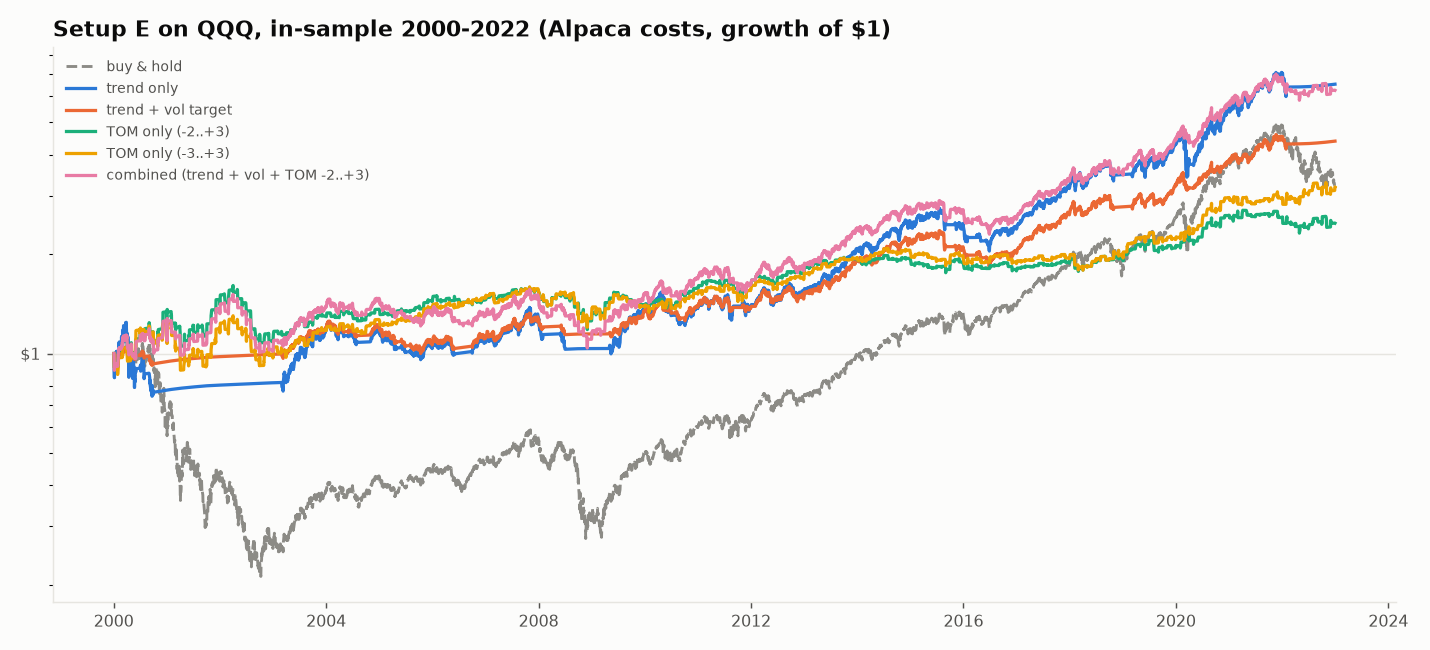
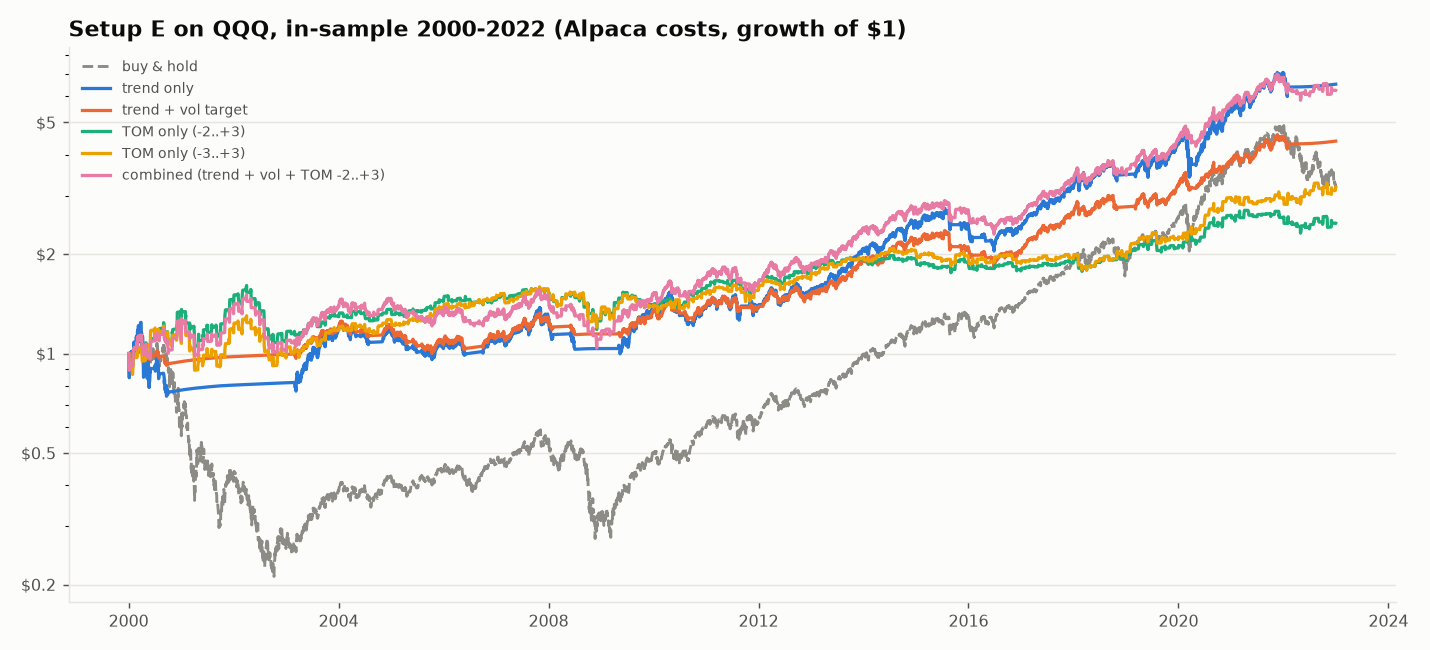
Setup E: holdout 2023-2026 (run once), drop rules and write-up
- Holdout: every E variant lagged buy-and-hold in 2023-26 (SPY combined
  12.2%/yr vs 20.9%) with about half the drawdown
- Drop rules pass: SPY trend + vol target, SPY combined, QQQ trend + vol
  target (Alpaca only); TOM-only variants and everything on IG fail
- SETUP_E.md: components, full metrics, IG version, drop-rule table,
  verdict (drawdown insurance, not extra return; Alpaca not IG)
- AV: empty responses for delisted names are cached so the daily
  budget isn't re-spent on them
- Chart log-axis labels; variant ledger tidied (addendum total 11)

diff --git a/src/earnings_bot/data/earnings.py b/src/earnings_bot/data/earnings.py
@@ -187,6 +187,11 @@ def fetch_av_earnings(
         if "requests per day" in low or ("rate limit" in low and "25" in low):
             budget.exhaust()
             raise RateLimited(f"Alpha Vantage daily limit: {msg}")
+        if data == {}:
+            # AV has nothing for this ticker (typical for delisted names): remember that, so the
+            # 25-a-day budget isn't spent asking again
+            write_json({"quarterlyEarnings": [], "empty": True}, path)
+            return {"quarterlyEarnings": []}
         raise ValueError(f"Alpha Vantage returned no earnings for {symbol}: {msg}")
     write_json(data, path)
     _time.sleep(1.2)  # be polite between calls

diff --git a/scripts/run_setup_e.py b/scripts/run_setup_e.py
@@ -121,6 +121,7 @@ def main() -> int:
             ax.plot(c.index, c.values, color=color, linewidth=1.8, label=name)
         if not args.holdout:
             ax.set_yscale("log")
+            ax.yaxis.set_major_locator(mtick.LogLocator(base=10, subs=(1.0, 2.0, 5.0)))
         ax.yaxis.set_major_formatter(mtick.FuncFormatter(lambda v, _: f"${v:,.2g}"))
         ax.yaxis.set_minor_formatter(mtick.NullFormatter())
         ax.legend(frameon=False, fontsize=8, labelcolor=INK2, loc="upper left")

diff --git a/docs/research/setup_e/SETUP_E.md b/docs/research/setup_e/SETUP_E.md
@@ -1,0 +1,206 @@
+# Research addendum, Setup E: SPY/QQQ trend filter + volatility target + turn-of-the-month tilt
+
+Rules as written in the addendum, no tunable parameters. Code: `signals/setup_e.py`,
+`backtest/allocation.py`, `scripts/run_setup_e.py` (evaluation definitions fixed in its docstring
+before any results). Results: `results_pre_holdout.csv`, `results_holdout.csv`, `drop_rules.csv`.
+
+## Rules and interpretation choices (fixed in advance)
+
+- **Trend:** at each month-end close, invested if SPY/QQQ closes above its 200-day SMA, else cash
+  earning the 3-month T-bill rate (FRED DTB3). Filled at the next open.
+- **Vol target:** exposure min(1, 0.12 / sigma20), sigma20 = annualised 20-day realised vol.
+  *Choice:* recomputed at every daily close, filled at the next open (the addendum doesn't say how
+  often; daily is the direct reading of the formula).
+- **TOM:** from the close of trading day -2 before month-end to the close of day +3, hold 1.0x;
+  entry and exit at those closes. *Choice:* at the TOM exit close the position returns to the base
+  target decided at the *previous* close, so no signal is filled at its own close (rule 4).
+- **Costs:** Alpaca 2 bps/side. IG daily-funded index bet: 0.5 pt (S&P 500) / 1.0 pt (Nasdaq-100)
+  round trip, plus (fed funds + 3.4%) / 360 per night on the exposure held overnight. Each also x2.
+  Cash earns T-bills in every version.
+- **Sharpe:** "Sharpe" uses rf = 0; **"excess Sharpe" is over T-bills and is the one used for the
+  drop rules** (cash earned 4-5% in 2023-26, so rf = 0 would flatter cash-heavy variants).
+- **Periods:** development 2000-2015, validation 2016-2022 (no parameters to re-fit, so simply the
+  next out-of-sample block), **holdout 2023-01-01 to 2026-11-13, run once** after the pre-holdout
+  results were committed (`be895e6`).
+
+**Caveat on the holdout:** it isn't fully unseen. Setup D (Nov 2026) already showed me how SPY/QQQ
+moving-average filters did from Nov 2024 to Nov 2026. E's rules were fixed by the addendum, not by me,
+so this couldn't influence them, but the holdout isn't independent of what I'd seen.
+
+## Summary (Alpaca costs): CAGR / max drawdown / excess Sharpe
+
+### SPY
+
+| variant                             | development 2000-2015   | validation 2016-2022   | in-sample 2000-2022   | 2010-2019            | 2020-2026            | holdout 2023-2026    |
+|:------------------------------------|:------------------------|:-----------------------|:----------------------|:---------------------|:---------------------|:---------------------|
+| buy & hold                          | +4.0% / -55% / 0.21     | +11.6% / -34% / 0.62   | +6.2% / -55% / 0.33   | +13.3% / -19% / 0.88 | +14.6% / -34% / 0.64 | +20.9% / -19% / 1.03 |
+| trend only                          | +8.4% / -17% / 0.58     | +6.8% / -22% / 0.50    | +7.8% / -22% / 0.55   | +8.1% / -22% / 0.64  | +9.4% / -24% / 0.53  | +12.4% / -10% / 0.65 |
+| trend + vol target                  | +6.7% / -13% / 0.54     | +6.6% / -17% / 0.59    | +6.6% / -17% / 0.55   | +7.0% / -17% / 0.65  | +8.4% / -16% / 0.53  | +10.7% / -10% / 0.56 |
+| TOM only (-2..+3)                   | +3.7% / -18% / 0.27     | +3.5% / -9% / 0.33     | +3.6% / -18% / 0.28   | +2.6% / -14% / 0.33  | +6.2% / -9% / 0.42   | +7.4% / -9% / 0.42   |
+| TOM only (-3..+3)                   | +4.2% / -20% / 0.30     | +6.4% / -11% / 0.62    | +4.8% / -20% / 0.38   | +3.3% / -12% / 0.40  | +9.1% / -13% / 0.69  | +8.0% / -13% / 0.49  |
+| combined (trend + vol + TOM -2..+3) | +7.6% / -21% / 0.53     | +9.6% / -15% / 0.75    | +8.1% / -21% / 0.59   | +9.8% / -20% / 0.83  | +10.0% / -15% / 0.60 | +12.2% / -11% / 0.65 |
+
+### QQQ
+
+| variant                             | development 2000-2015   | validation 2016-2022   | in-sample 2000-2022   | 2010-2019            | 2020-2026            | holdout 2023-2026    |
+|:------------------------------------|:------------------------|:-----------------------|:----------------------|:---------------------|:---------------------|:---------------------|
+| buy & hold                          | +1.7% / -83% / 0.14     | +14.5% / -35% / 0.65   | +5.3% / -83% / 0.27   | +17.7% / -23% / 1.00 | +18.9% / -35% / 0.70 | +28.4% / -23% / 1.10 |
+| trend only                          | +5.7% / -40% / 0.30     | +15.6% / -29% / 0.82   | +8.5% / -40% / 0.46   | +11.8% / -26% / 0.76 | +16.2% / -29% / 0.71 | +17.7% / -15% / 0.75 |
+| trend + vol target                  | +4.7% / -20% / 0.32     | +11.5% / -12% / 0.93   | +6.6% / -23% / 0.51   | +9.0% / -23% / 0.75  | +12.7% / -12% / 0.83 | +14.6% / -10% / 0.80 |
+| TOM only (-2..+3)                   | +4.0% / -33% / 0.23     | +4.5% / -15% / 0.38    | +4.0% / -33% / 0.26   | +4.0% / -11% / 0.48  | +7.0% / -15% / 0.42  | +8.5% / -12% / 0.45  |
+| TOM only (-3..+3)                   | +4.2% / -29% / 0.24     | +7.8% / -10% / 0.62    | +5.2% / -29% / 0.32   | +4.7% / -14% / 0.52  | +9.8% / -15% / 0.60  | +8.1% / -15% / 0.38  |
+| combined (trend + vol + TOM -2..+3) | +6.4% / -33% / 0.35     | +13.3% / -17% / 0.88   | +8.3% / -33% / 0.49   | +11.3% / -21% / 0.85 | +14.0% / -17% / 0.76 | +16.1% / -12% / 0.80 |
+
+![SPY 2000-2022](equity_SPY_pre_holdout.png)
+
+![SPY holdout](equity_SPY_holdout.png)
+
+![QQQ 2000-2022](equity_QQQ_pre_holdout.png)
+
+![QQQ holdout](equity_QQQ_holdout.png)
+
+## Full figures, 2000-2022 (Alpaca)
+
+### SPY
+
+| variant                             | CAGR   | volatility   | max DD   |   Sharpe |   excess Sharpe |   months | win rate (months)   | avg win month   | avg loss month   | time invested   | avg exposure   |   trades/yr |   costs+funding %/yr | top-5% months share of profit   |
+|:------------------------------------|:-------|:-------------|:---------|---------:|----------------:|---------:|:--------------------|:----------------|:-----------------|:----------------|:---------------|------------:|---------------------:|:--------------------------------|
+| buy & hold                          | +6.2%  | 19.9%        | -55.2%   |     0.4  |            0.33 |      276 | 62%                 | +3.3%           | -3.8%            | 100%            | 100%           |           0 |                 0    | 78%                             |
+| trend only                          | +7.8%  | 12.3%        | -22.2%   |     0.68 |            0.55 |      276 | 75%                 | +1.8%           | -2.9%            | 73%             | 73%            |           1 |                 0.02 | 52%                             |
+| trend + vol target                  | +6.6%  | 9.7%         | -17.1%   |     0.71 |            0.55 |      276 | 74%                 | +1.6%           | -2.3%            | 73%             | 64%            |          49 |                 0.06 | 47%                             |
+| TOM only (-2..+3)                   | +3.6%  | 8.2%         | -18.0%   |     0.47 |            0.28 |      276 | 59%                 | +1.6%           | -1.6%            | 19%             | 19%            |          24 |                 0.48 | 77%                             |
+| TOM only (-3..+3)                   | +4.8%  | 9.3%         | -20.0%   |     0.55 |            0.38 |      276 | 60%                 | +1.8%           | -1.7%            | 24%             | 24%            |          24 |                 0.48 | 73%                             |
+| combined (trend + vol + TOM -2..+3) | +8.1%  | 11.9%        | -21.1%   |     0.72 |            0.59 |      276 | 64%                 | +2.5%           | -2.5%            | 78%             | 71%            |          50 |                 0.21 | 44%                             |
+
+### QQQ
+
+| variant                             | CAGR   | volatility   | max DD   |   Sharpe |   excess Sharpe |   months | win rate (months)   | avg win month   | avg loss month   | time invested   | avg exposure   |   trades/yr |   costs+funding %/yr | top-5% months share of profit   |
+|:------------------------------------|:-------|:-------------|:---------|---------:|----------------:|---------:|:--------------------|:----------------|:-----------------|:----------------|:---------------|------------:|---------------------:|:--------------------------------|
+| buy & hold                          | +5.3%  | 27.7%        | -83.0%   |     0.32 |            0.27 |      276 | 58%                 | +5.1%           | -5.4%            | 100%            | 100%           |           0 |                 0    | 111%                            |
+| trend only                          | +8.5%  | 18.2%        | -40.2%   |     0.54 |            0.46 |      276 | 70%                 | +2.6%           | -3.6%            | 71%             | 71%            |           2 |                 0.03 | 62%                             |
+| trend + vol target                  | +6.6%  | 10.7%        | -22.6%   |     0.66 |            0.51 |      276 | 70%                 | +1.9%           | -2.4%            | 71%             | 54%            |          72 |                 0.09 | 50%                             |
+| TOM only (-2..+3)                   | +4.0%  | 12.4%        | -32.9%   |     0.38 |            0.26 |      276 | 58%                 | +2.5%           | -2.5%            | 19%             | 19%            |          24 |                 0.48 | 113%                            |
+| TOM only (-3..+3)                   | +5.2%  | 13.7%        | -29.4%   |     0.44 |            0.32 |      276 | 59%                 | +2.6%           | -2.5%            | 24%             | 24%            |          24 |                 0.48 | 97%                             |
+| combined (trend + vol + TOM -2..+3) | +8.3%  | 15.6%        | -33.4%   |     0.59 |            0.49 |      276 | 59%                 | +3.5%           | -3.2%            | 76%             | 63%            |          73 |                 0.28 | 63%                             |
+
+## Holdout 2023-2026 (Alpaca)
+
+### SPY
+
+| variant                             | CAGR   | volatility   | max DD   |   Sharpe |   excess Sharpe |   months | win rate (months)   | avg win month   | avg loss month   | time invested   | avg exposure   |   trades/yr |   costs+funding %/yr | top-5% months share of profit   |
+|:------------------------------------|:-------|:-------------|:---------|---------:|----------------:|---------:|:--------------------|:----------------|:-----------------|:----------------|:---------------|------------:|---------------------:|:--------------------------------|
+| buy & hold                          | +20.9% | 15.0%        | -18.8%   |     1.34 |            1.03 |       47 | 66%                 | +3.6%           | -2.1%            | 100%            | 100%           |           0 |                 0    | 34%                             |
+| trend only                          | +12.4% | 12.3%        | -10.0%   |     1.02 |            0.65 |       47 | 66%                 | +2.6%           | -2.1%            | 89%             | 89%            |           2 |                 0.04 | 38%                             |
+| trend + vol target                  | +10.7% | 11.1%        | -9.7%    |     0.97 |            0.56 |       47 | 64%                 | +2.4%           | -1.9%            | 89%             | 82%            |          65 |                 0.09 | 42%                             |
+| TOM only (-2..+3)                   | +7.4%  | 6.5%         | -9.2%    |     1.12 |            0.42 |       47 | 70%                 | +1.7%           | -1.9%            | 19%             | 19%            |          24 |                 0.49 | 43%                             |
+| TOM only (-3..+3)                   | +8.0%  | 7.1%         | -12.6%   |     1.13 |            0.49 |       47 | 66%                 | +1.9%           | -1.8%            | 24%             | 24%            |          24 |                 0.49 | 42%                             |
+| combined (trend + vol + TOM -2..+3) | +12.2% | 11.8%        | -11.1%   |     1.04 |            0.65 |       47 | 62%                 | +2.9%           | -2.0%            | 91%             | 85%            |          60 |                 0.14 | 38%                             |
+
+### QQQ
+
+| variant                             | CAGR   | volatility   | max DD   |   Sharpe |   excess Sharpe |   months | win rate (months)   | avg win month   | avg loss month   | time invested   | avg exposure   |   trades/yr |   costs+funding %/yr | top-5% months share of profit   |
+|:------------------------------------|:-------|:-------------|:---------|---------:|----------------:|---------:|:--------------------|:----------------|:-----------------|:----------------|:---------------|------------:|---------------------:|:--------------------------------|
+| buy & hold                          | +28.4% | 20.5%        | -22.8%   |     1.33 |            1.1  |       47 | 64%                 | +5.1%           | -3.0%            | 100%            | 100%           |           0 |                 0    | 37%                             |
+| trend only                          | +17.7% | 18.0%        | -14.8%   |     1    |            0.75 |       47 | 62%                 | +4.1%           | -2.8%            | 92%             | 92%            |           1 |                 0.03 | 45%                             |
+| trend + vol target                  | +14.6% | 12.4%        | -9.7%    |     1.17 |            0.8  |       47 | 66%                 | +2.9%           | -2.2%            | 92%             | 66%            |         117 |                 0.12 | 38%                             |
+| TOM only (-2..+3)                   | +8.5%  | 8.9%         | -11.9%   |     0.97 |            0.45 |       47 | 60%                 | +2.5%           | -2.0%            | 19%             | 19%            |          24 |                 0.49 | 46%                             |
+| TOM only (-3..+3)                   | +8.1%  | 9.8%         | -15.1%   |     0.84 |            0.38 |       47 | 57%                 | +2.8%           | -2.1%            | 24%             | 24%            |          24 |                 0.49 | 47%                             |
+| combined (trend + vol + TOM -2..+3) | +16.1% | 14.2%        | -12.1%   |     1.13 |            0.8  |       47 | 66%                 | +3.4%           | -2.7%            | 93%             | 72%            |         113 |                 0.26 | 40%                             |
+
+## IG daily-funded index bet: CAGR / excess Sharpe
+
+| instrument   | variant                             | IG 2000-22   | IG x2 2000-22   | IG 2023-26    | IG x2 2023-26   |   IG costs+funding %/yr |
+|:-------------|:------------------------------------|:-------------|:----------------|:--------------|:----------------|------------------------:|
+| SPY          | buy & hold                          | +0.9% / 0.07 | -4.1% / -0.19   | +11.5% / 0.50 | +2.9% / -0.04   |                    5.12 |
+| SPY          | trend only                          | +3.9% / 0.25 | +0.2% / -0.05   | +4.6% / 0.06  | -2.7% / -0.53   |                    3.68 |
+| SPY          | trend + vol target                  | +3.3% / 0.22 | -0.0% / -0.11   | +3.7% / -0.03 | -3.0% / -0.63   |                    3.23 |
+| SPY          | TOM only (-2..+3)                   | +2.6% / 0.16 | +1.2% / -0.01   | +6.0% / 0.24  | +4.2% / -0.03   |                    1.41 |
+| SPY          | TOM only (-3..+3)                   | +3.6% / 0.26 | +1.9% / 0.08    | +6.3% / 0.26  | +4.1% / -0.04   |                    1.63 |
+| SPY          | combined (trend + vol + TOM -2..+3) | +4.4% / 0.29 | +0.5% / -0.03   | +4.8% / 0.07  | -2.2% / -0.52   |                    3.75 |
+| QQQ          | buy & hold                          | +0.0% / 0.08 | -5.0% / -0.10   | +18.5% / 0.71 | +9.3% / 0.32    |                    5.12 |
+| QQQ          | trend only                          | +4.8% / 0.27 | +1.3% / 0.08    | +9.3% / 0.33  | +1.5% / -0.08   |                    3.47 |
+| QQQ          | trend + vol target                  | +3.9% / 0.27 | +1.2% / 0.02    | +8.8% / 0.38  | +3.2% / -0.05   |                    2.65 |
+| QQQ          | TOM only (-2..+3)                   | +3.0% / 0.17 | +1.4% / 0.05    | +7.2% / 0.32  | +5.5% / 0.13    |                    1.51 |
+| QQQ          | TOM only (-3..+3)                   | +3.9% / 0.23 | +2.1% / 0.11    | +6.4% / 0.22  | +4.3% / 0.01    |                    1.73 |
+| QQQ          | combined (trend + vol + TOM -2..+3) | +5.0% / 0.29 | +1.5% / 0.07    | +9.7% / 0.41  | +3.4% / -0.01   |                    3.39 |
+
+Funding is the problem on IG. At fed funds + 3.4%, a fully invested position paid about 5% a year on average over 2000-22 and 8% a year in 2023-26,
+and buy-and-hold itself drops from a 2023-26 excess Sharpe of 1.03 (Alpaca, SPY) to 0.50 (IG).
+
+## Drop rules (pre-committed in the addendum)
+
+DSR uses 11 trials (the addendum's running count: Step 0 + 10 E
+variants) and the variance of the E variants' daily excess Sharpe, 2000-2022; it's computed on
+Alpaca returns and reused for IG. Correlation with Setup A (Step 0, point-in-time, daily, 2010-2026)
+is 0.23-0.43 for every variant (buy & hold: SPY 0.43, QQQ 0.40).
+
+| platform   | instrument   | variant                             |   in-sample excess Sharpe |   holdout excess Sharpe |   edge vs B&H at x2 costs |   DSR | top-5% months   |   corr with A | verdict                                                                                  |
+|:-----------|:-------------|:------------------------------------|--------------------------:|------------------------:|--------------------------:|------:|:----------------|--------------:|:-----------------------------------------------------------------------------------------|
+| Alpaca     | SPY          | trend only                          |                      0.55 |                    0.65 |                      0.22 |  0.95 | 52%             |          0.4  | drop: best 5% of months = 52% of profit                                                  |
+| Alpaca     | SPY          | trend + vol target                  |                      0.55 |                    0.56 |                      0.22 |  0.95 | 47%             |          0.43 | PASS                                                                                     |
+| Alpaca     | SPY          | TOM only (-2..+3)                   |                      0.28 |                    0.42 |                     -0.11 |  0.65 | 77%             |          0.25 | drop: DSR 0.65; edge gone at x2 costs (-0.11); best 5% of months = 77% of profit         |
+| Alpaca     | SPY          | TOM only (-3..+3)                   |                      0.38 |                    0.49 |                      0.01 |  0.81 | 73%             |          0.26 | drop: DSR 0.81; best 5% of months = 73% of profit                                        |
+| Alpaca     | SPY          | combined (trend + vol + TOM -2..+3) |                      0.59 |                    0.65 |                      0.24 |  0.97 | 44%             |          0.43 | PASS                                                                                     |
+| Alpaca     | QQQ          | trend only                          |                      0.46 |                    0.75 |                      0.18 |  0.89 | 62%             |          0.34 | drop: DSR 0.89; best 5% of months = 62% of profit                                        |
+| Alpaca     | QQQ          | trend + vol target                  |                      0.51 |                    0.8  |                      0.24 |  0.93 | 50%             |          0.38 | PASS                                                                                     |
+| Alpaca     | QQQ          | TOM only (-2..+3)                   |                      0.26 |                    0.45 |                     -0.05 |  0.62 | 113%            |          0.23 | drop: DSR 0.62; edge gone at x2 costs (-0.05); best 5% of months = 113% of profit        |
+| Alpaca     | QQQ          | TOM only (-3..+3)                   |                      0.32 |                    0.38 |                      0.02 |  0.73 | 97%             |          0.24 | drop: DSR 0.73; best 5% of months = 97% of profit                                        |
+| Alpaca     | QQQ          | combined (trend + vol + TOM -2..+3) |                      0.49 |                    0.8  |                      0.2  |  0.92 | 63%             |          0.39 | drop: best 5% of months = 63% of profit                                                  |
+| IG         | SPY          | trend only                          |                      0.25 |                    0.06 |                      0.14 |  0.95 | 89%             |          0.4  | drop: holdout Sharpe 0.06 (in-sample 0.25); best 5% of months = 89% of profit            |
+| IG         | SPY          | trend + vol target                  |                      0.22 |                   -0.03 |                      0.08 |  0.95 | 83%             |          0.43 | drop: holdout Sharpe -0.03 (in-sample 0.22); best 5% of months = 83% of profit           |
+| IG         | SPY          | TOM only (-2..+3)                   |                      0.16 |                    0.24 |                      0.18 |  0.65 | 100%            |          0.25 | drop: holdout Sharpe 0.24 (in-sample 0.16); DSR 0.65; best 5% of months = 100% of profit |
+| IG         | SPY          | TOM only (-3..+3)                   |                      0.26 |                    0.26 |                      0.27 |  0.81 | 94%             |          0.26 | drop: holdout Sharpe 0.26 (in-sample 0.26); DSR 0.81; best 5% of months = 94% of profit  |
+| IG         | SPY          | combined (trend + vol + TOM -2..+3) |                      0.29 |                    0.07 |                      0.16 |  0.97 | 73%             |          0.43 | drop: holdout Sharpe 0.07 (in-sample 0.29); best 5% of months = 73% of profit            |
+| IG         | QQQ          | trend only                          |                      0.27 |                    0.33 |                      0.18 |  0.89 | 94%             |          0.34 | drop: DSR 0.89; best 5% of months = 94% of profit                                        |
+| IG         | QQQ          | trend + vol target                  |                      0.27 |                    0.38 |                      0.12 |  0.93 | 75%             |          0.38 | drop: best 5% of months = 75% of profit                                                  |
+| IG         | QQQ          | TOM only (-2..+3)                   |                      0.17 |                    0.32 |                      0.15 |  0.62 | 143%            |          0.23 | drop: DSR 0.62; best 5% of months = 143% of profit                                       |
+| IG         | QQQ          | TOM only (-3..+3)                   |                      0.23 |                    0.22 |                      0.21 |  0.73 | 122%            |          0.24 | drop: holdout Sharpe 0.22 (in-sample 0.23); DSR 0.73; best 5% of months = 122% of profit |
+| IG         | QQQ          | combined (trend + vol + TOM -2..+3) |                      0.29 |                    0.41 |                      0.17 |  0.92 | 94%             |          0.39 | drop: best 5% of months = 94% of profit                                                  |
+
+**Survivors: SPY trend + vol target, SPY combined, QQQ trend + vol target, all on Alpaca only.**
+Nothing survives on IG.
+
+## Components, plainly
+
+- **Trend (month-end 200-day SMA):** the research expectation holds over 2000-2022: max drawdown
+  -22% vs -55% (SPY), -40% vs -83% (QQQ), with better excess Sharpe, because it was out for most of
+  2000-02 and 2008. It costs return in recoveries: SPY 2016-22 trend-only excess Sharpe 0.50 vs 0.62
+  buy-and-hold, and in 2023-26 it made 12.4% a year vs 20.9%.
+- **Vol target:** lowers volatility and drawdown (SPY 2000-22 max DD -17%, QQQ -23%) at about the same
+  excess Sharpe as trend alone. It trades about 50-75 times a year, but in small sizes; Alpaca cost is
+  under 0.1% a year.
+- **TOM:** returns are concentrated in the turn of the month (SPY holds 19% of days and earns 3.6% a
+  year in 2000-22, plus T-bills the rest of the time). But on its own it doesn't beat buy-and-hold on
+  excess Sharpe, its DSR is 0.62-0.81, and the -2..+3 window loses its edge once costs double. The
+  -3..+3 window (a pre-declared second variant) did better in-sample but no better in the holdout.
+  Neither TOM window passes.
+- **Combined:** the best excess Sharpe in 2000-2022 on SPY (0.59 vs 0.33) and in validation 2016-22
+  (0.75 vs 0.62). The TOM tilt adds a little on top of trend + vol on SPY.
+
+## Verdict
+
+**Is the edge real?** The surviving variants are literature rules tested exactly as written (no
+searching or tuning), and their DSR is 0.92-0.97. That makes overfitting unlikely; t >= 2 is the
+right bar here. But what they reliably deliver is **lower drawdown, not higher return**. They beat
+buy-and-hold on risk-adjusted return when there's a long bear market in the sample (2000-02, 2008,
+2022) and **lag it badly in strong, fast-recovering markets**. In the 2023-26 holdout every variant
+trailed buy-and-hold (SPY combined: 12.2% a year vs 20.9%, excess Sharpe 0.65 vs 1.03), though with
+about half the drawdown (-11% vs -19%). So the "edge" is insurance against a deep bear market, and
+the 2023-26 result is the premium paid for it, not evidence that it's broken.
+
+**Against Setup A** (Step 0, point-in-time): SPY combined had a Sharpe (rf = 0) of 0.88 in 2010-19 and
+0.83 in 2020-26, vs A's 0.71 and 0.41. Its correlation with A is low (0.43) and it holds ~85% of
+capital rather than ~30%. On every measure here, E beats A.
+
+**Platform: Alpaca (automated), not IG.** It needs month-end checks, daily vol-target rebalancing
+(small orders, about 50 a year) and orders at specific closes for the TOM windows. That's easy to
+automate and awkward to do by hand. IG's funding (fed funds + 3.4% on the full notional every night)
+turns the 2023-26 holdout excess Sharpe for SPY to roughly zero.
+
+If you want one variant, **SPY combined (trend + vol target + TOM -2..+3) on Alpaca** has the strongest
+case (best in-sample and validation excess Sharpe, DSR 0.97, passes every rule). But paper-trading any
+new setup waits for your decision, as the addendum says.
+
+## Variants counted
+
+10 (5 rules x SPY and QQQ). Addendum running total: **11**. See [VARIANT_LEDGER.md](../VARIANT_LEDGER.md).

diff --git a/docs/research/VARIANT_LEDGER.md b/docs/research/VARIANT_LEDGER.md
@@ -1,18 +1,16 @@
 # Variant ledger: research addendum (Setups E, F, G; Nov 2026)
 
 Every variant run for the addendum is counted here, including abandoned ones. Cost settings
-(Alpaca / IG / ×2) and data-universe comparisons of the same rule aren't counted as separate variants.
+(Alpaca / IG / x2) and data-universe comparisons of the same rule aren't counted as separate variants.
 
 | # | Step | Variant | Date | Notes |
 |---|---|---|---|---|
 | 1 | Step 0 | Setup A as live (ema+fixed, next-open scheduled exits), point-in-time S&P 500, 2010-2026 | 2026-11-12 | Also run on today's list for the before/after comparison |
+| 2-6 | Setup E, SPY | trend only; trend + vol target; TOM only -2..+3; TOM only -3..+3; combined (trend + vol + TOM -2..+3) | 2026-11-16 | Rules as written; interpretation choices fixed in  before results |
+| 7-11 | Setup E, QQQ | the same 5 rules | 2026-11-16 | as above |
 
-**Addendum total after Step 0: 1**
+**Addendum total: 11** (after Step 0 and Setup E)
 
 Earlier in the project (before the addendum), for context in Deflated Sharpe calculations:
 13 earnings variants (Setup A: 8 in-sample + the open-exit rule; Setup B: 4) and 30 Setup D
-trend-filter variants (10 rules × SPY, QQQ, S&P 500 index).
-
-| 2-11 | Setup E | 5 rules × 2 instruments (SPY, QQQ): trend only; trend + vol target; TOM only −2..+3; TOM only −3..+3; combined (trend + vol + TOM −2..+3) | 2026-11-16 | Rules as written; no tunable parameters; interpretation choices fixed in `scripts/run_setup_e.py` before results |
-
-**Addendum total after Setup E: 11**
+trend-filter variants (10 rules x SPY, QQQ, S&P 500 index).

diff --git a/README.md b/README.md
@@ -13,7 +13,7 @@ A rules-based **earnings-play** strategy for US stocks, backtested on daily data
 | 3. Backtest: setups A and B with variants vs SPY | done, including the pre-registered held-out check. **[Findings](docs/backtest/FINDINGS.md)** |
 | 3b. Setup D: SPY/QQQ moving-average trend filter (and as a regime filter for A/B) | done: no regime filter adopted |
 | 4. Paper loop: plan → submit → reconcile, journal, daily report | built and dry-run tested; **[runbook](docs/PAPER_TRADING.md)** |
-| Research addendum (setups E, G, F) | Step 0 done: Setup A re-baselined on point-in-time S&P 500 data with Alpaca and IG costs. **[Step 0 report](docs/research/step0/STEP0.md)** |
+| Research addendum (setups E, G, F) | Step 0 and Setup E done. **[Step 0](docs/research/step0/STEP0.md)**, **[Setup E](docs/research/setup_e/SETUP_E.md)** |
 | 5. Review after 6–8 weeks of paper trading | not started |
 
 ## Headline result (in-sample, 2016-2025)
